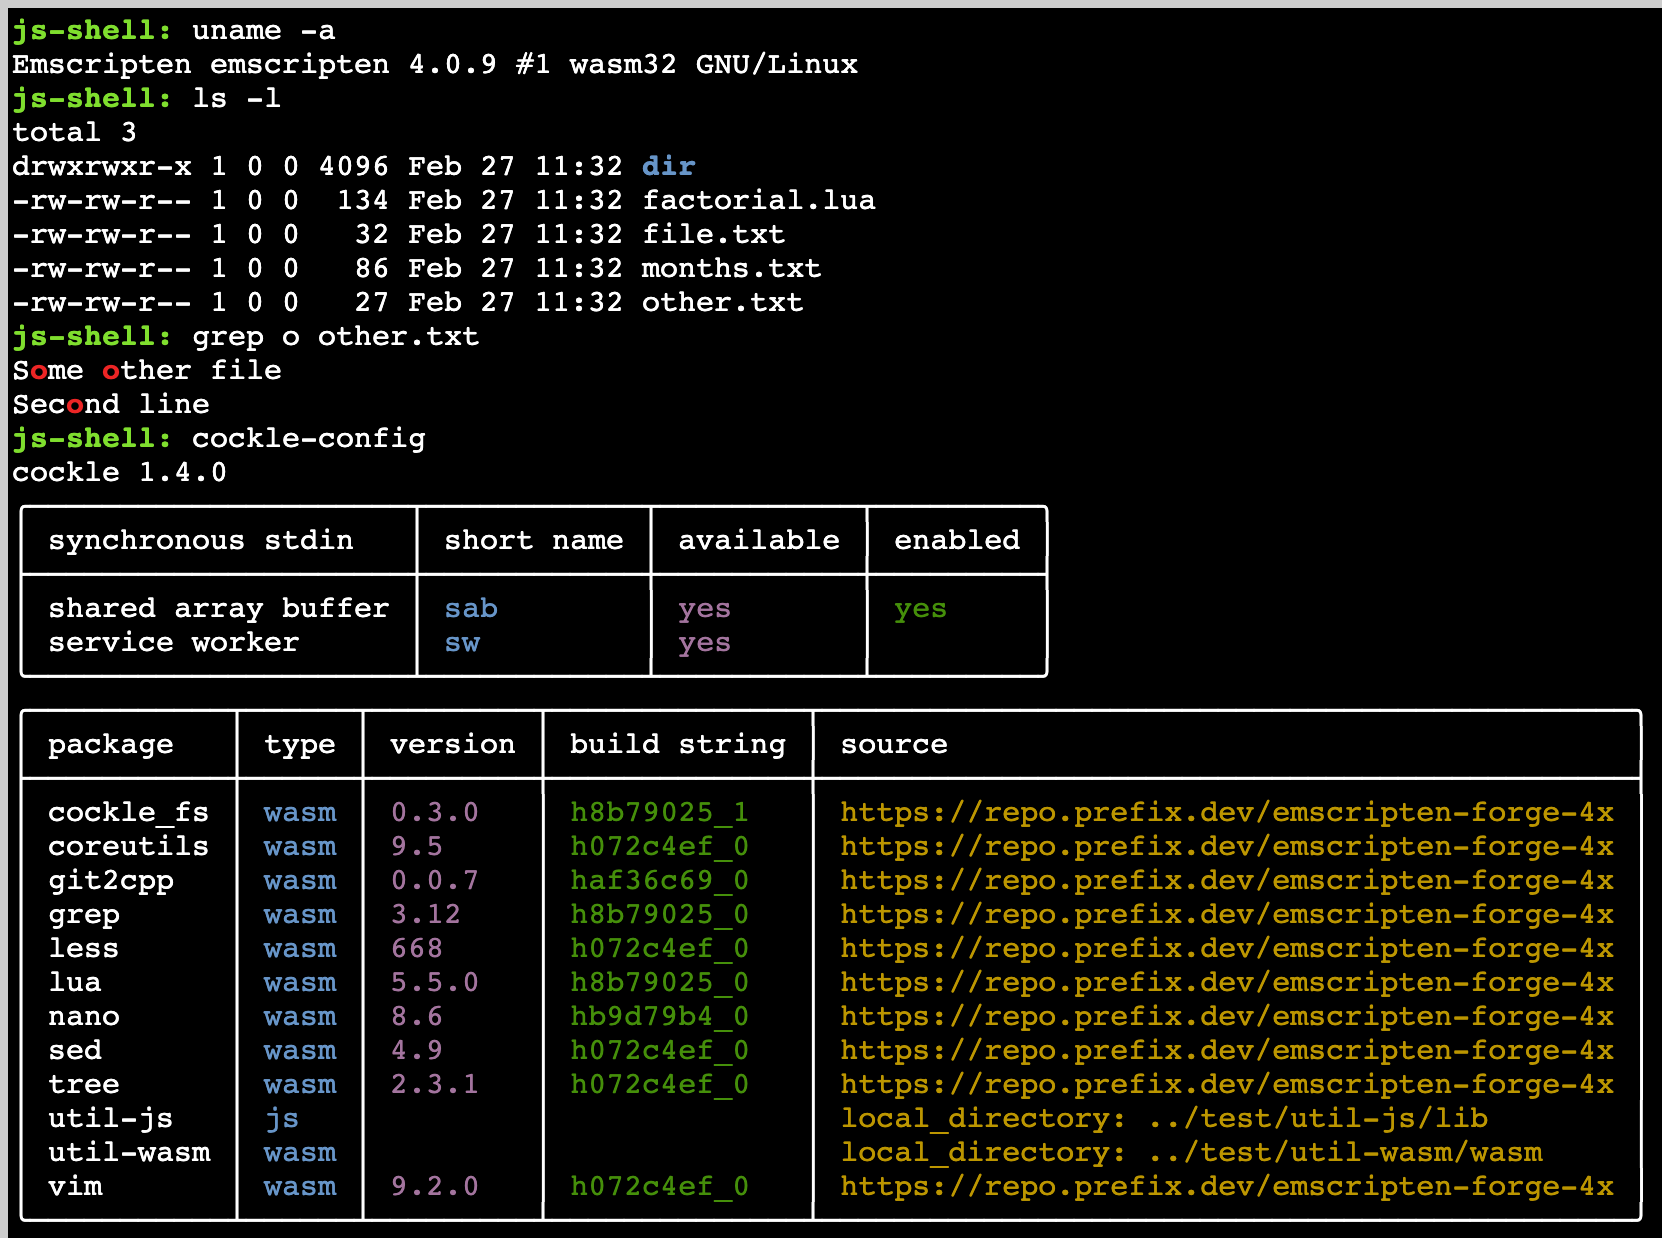
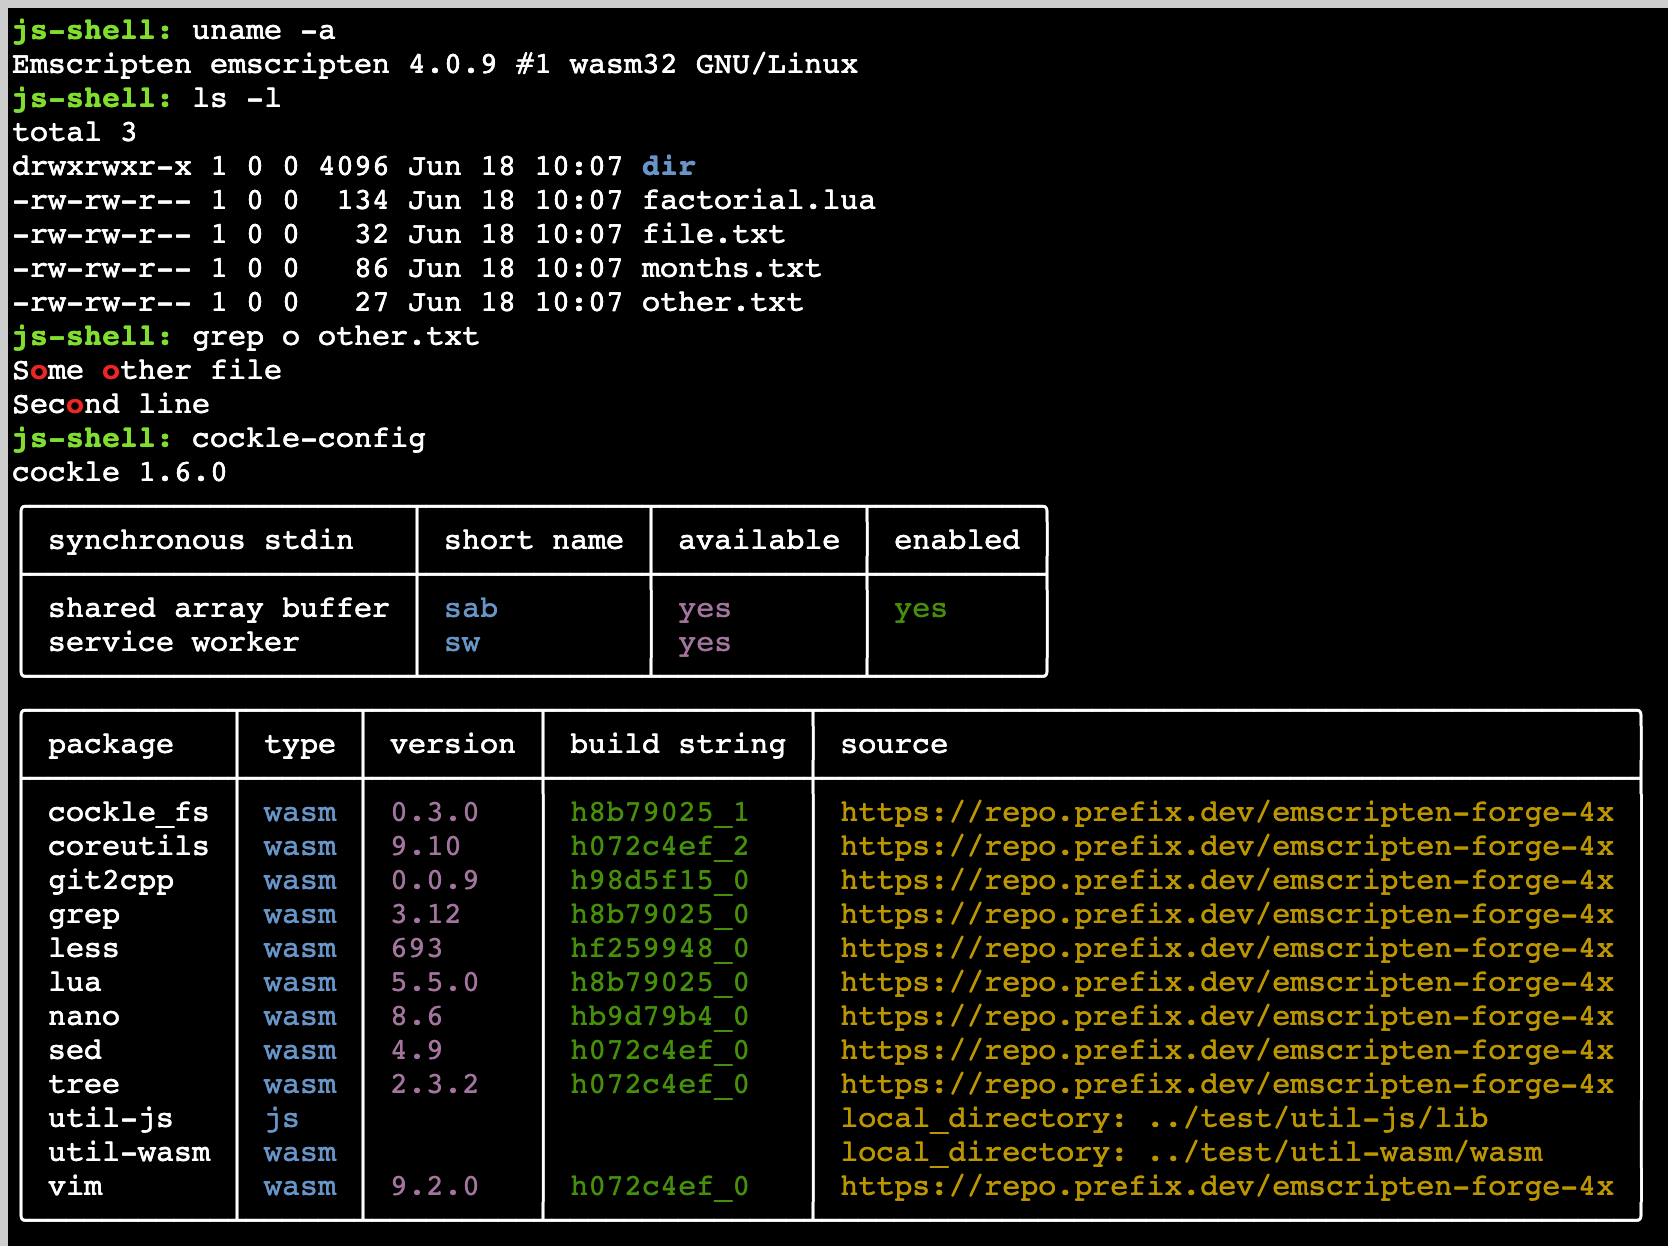
Update readme in preparation for 1.6.0 release

Changed region(s): [[0.0, 0.0, 1.0, 1.0]]

diff --git a/README.md b/README.md
@@ -4,20 +4,30 @@ In-browser bash-like shell implemented in a combination of TypeScript and WebAss
 
 Used in the [JupyterLite terminal extension](https://github.com/jupyterlite/terminal).
 
-Try it out outside of JupyterLite on github pages at https://jupyterlite.github.io/cockle.
+Try it out outside of JupyterLite on GitHub Pages at https://jupyterlite.github.io/cockle.
 
-⚠️ This is an early-stage work in progress and should be considered experimental code. Anything and
-everything could change at any time.
+Commands of the following types are supported:
 
-The commands used here are either built-in commands implemented in TypeScript, or WebAssembly
-commands compiled into `.js` and `.wasm` files. The latter are built by
-[Emscripten-forge](https://emscripten-forge.org/) and are added to a deployment during the build process.
+1. Built-in TypeScript commands such as `history`. The source code for these is within this repo.
+2. WebAssembly commands, from C/C++ source code, compiled into `.js` and `.wasm` files.
+   These are usually built by [Emscripten-forge](https://emscripten-forge.org/) although they can be
+   manually built, and are added to a deployment during the deployment build process.
+3. JavaScript commands that are loaded and run in the same as WebAssembly commands except they have
+   a `.js` file and no `.wasm` file. There is an example of creating a JavaScript command from
+   TypeScript source code for use in the Jupyterlite terminal in the
+   [terminal-javascript-command](https://github.com/ianthomas23/terminal-javascript-command) repo.
+4. External commands which are TypeScript commands that run in the main browser UI thread rather
+   than the WebWorker that the `cockle` shell runs in. These are registered when a `cockle` `Shell`
+   is constructed. There is an example of an external command which is packaged as a JupyterLite
+   extension in the
+   [terminal-external-command](https://github.com/ianthomas23/terminal-external-command) repo.
 
 [Emscripten-forge](https://emscripten-forge.org/) packages containing WebAssembly commands that are
 currently supported and tested are as follows. Each package contains a single commmand with the same
 name as the package unless otherwise specified:
 
 - `coreutils`: multiple core commands including `cat`, `cp`, `echo`, `ls`, `mkdir`, `mv`, `rm`, `touch`, `uname`, and `wc`
+- [`git2cpp`](https://git2cpp.readthedocs.io/): a `git` implementation
 - `grep`
 - `less`
 - `lua`